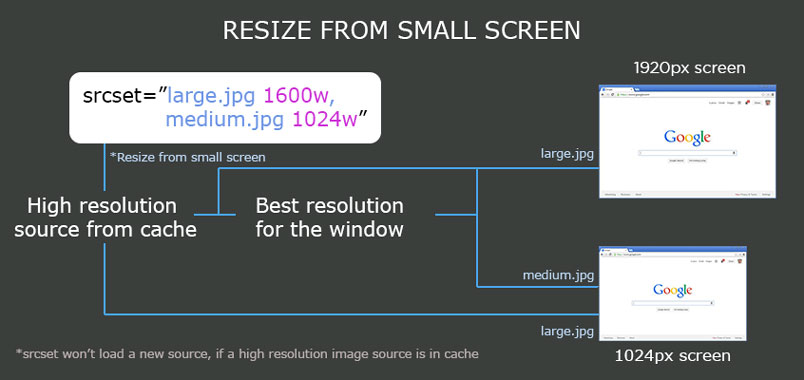
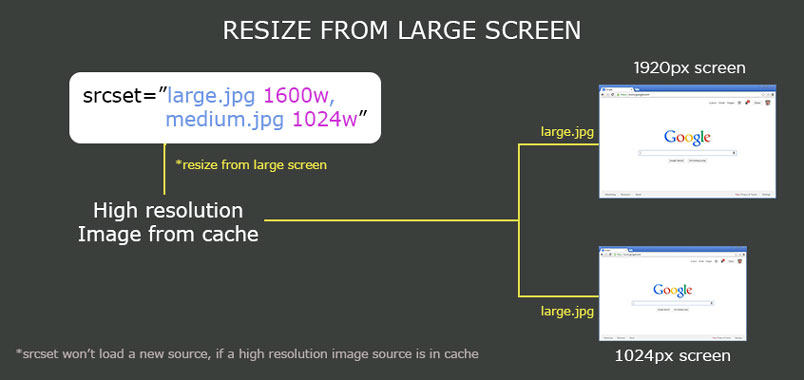
remove unwanted image in srcset example

Changed region(s): [[0.0, 0.3184, 0.7463, 0.8974], [0.4975, 0.0579, 0.7152, 0.1158]]

diff --git a/blog.html b/blog.html
@@ -1,14 +1,35 @@
 <style>body { font-size: 15px; font-family: sans-serif; }</style>
+
 <h1>Responsive images</h1>
 
-<p>images are the largest part in the page size and load time.</p>
+<p>
+    - Images has the important role in the content representation in most of the websites
+    - And it is the largest part in a web page interms of the page size and the load time apart from video and audio.
+    - In the modern world there are different kind of displays and screen resolutions. 
+    - Showing the same image for all these screens are not ideally good.
+    - This responsive images technique helps us to display the best image based on the device and screen capabilities.
+</p>
 
-<p>in the modern world there are different kind of displays and screen resolutions.</p>
+<hr>
 
-<p>responsive images technique helps to display the best image based on the device and screen capabilities.</p>
+<p>
+    - We have lot of responsive images techniques, through CSS, picture tag, srcset.
+    - Now we are going to discover picture tag, srcset, images-set()
+    - We need to choose the best among the other options.
+</p>
 
-<p>We have lot of responsive images techniques, we need to choose the best among the other options.</p>
+<hr>
 
+<p>
+    - Before that, look at the history of the responsive images integration
+    - Setting max-width: 100%; for <img> tag. so, it will scale-up and scale-down to the container size
+    - Changing background-image in media-queries
+    - Fit the images with background-size
+    - Handling icons in the fonts like fontawesome, icomoon or bootstrap glyphicons
+    - Now, we have more controls with picture tag, srcset and src-set(). Lets start about these
+</p>
+
+<hr>
 
 <h2>&lt;picture&gt;</h2>
 

diff --git a/index.html b/index.html
@@ -64,7 +64,7 @@
 						<li class="fragment">Setting <b>max-width: 100%;</b> for <b>&lt;img&gt;</b> tag</li>
 						<li class="fragment">Changing <b>background-image</b> in <b>media-queries</b></li>
 						<li class="fragment">Fit the images with <b>background-size</b></li>
-						<li class="fragment">Handling icons in <b>fonts</b></li>
+						<li class="fragment">Handling icons in <b>fonts</b> like fontawesome</li>
 						<li class="fragment">Now, more control with picture tag and srcset</li>
 					</ul>
 				</section>
@@ -180,7 +180,6 @@
 						<figure class="tipsImgGrp">
 							<img src="assets/img/tips/srcset-1.jpg" alt="srcset onload" id="img_srcset_1" />
 							<img src="assets/img/tips/srcset-2.jpg" alt="srcset resize from large screen" class="fragment fade-in" data-fragment-index="1" />
-							<img src="assets/img/tips/srcset-3.jpg" alt="srcset resize from small screen" id="img_srcset_3" class="fragment fade-in" data-fragment-index="2" />
 						</figure>
 						<p><small>*srcset accepts two designators 'w' and 'x'</small></p>
 					</section>
